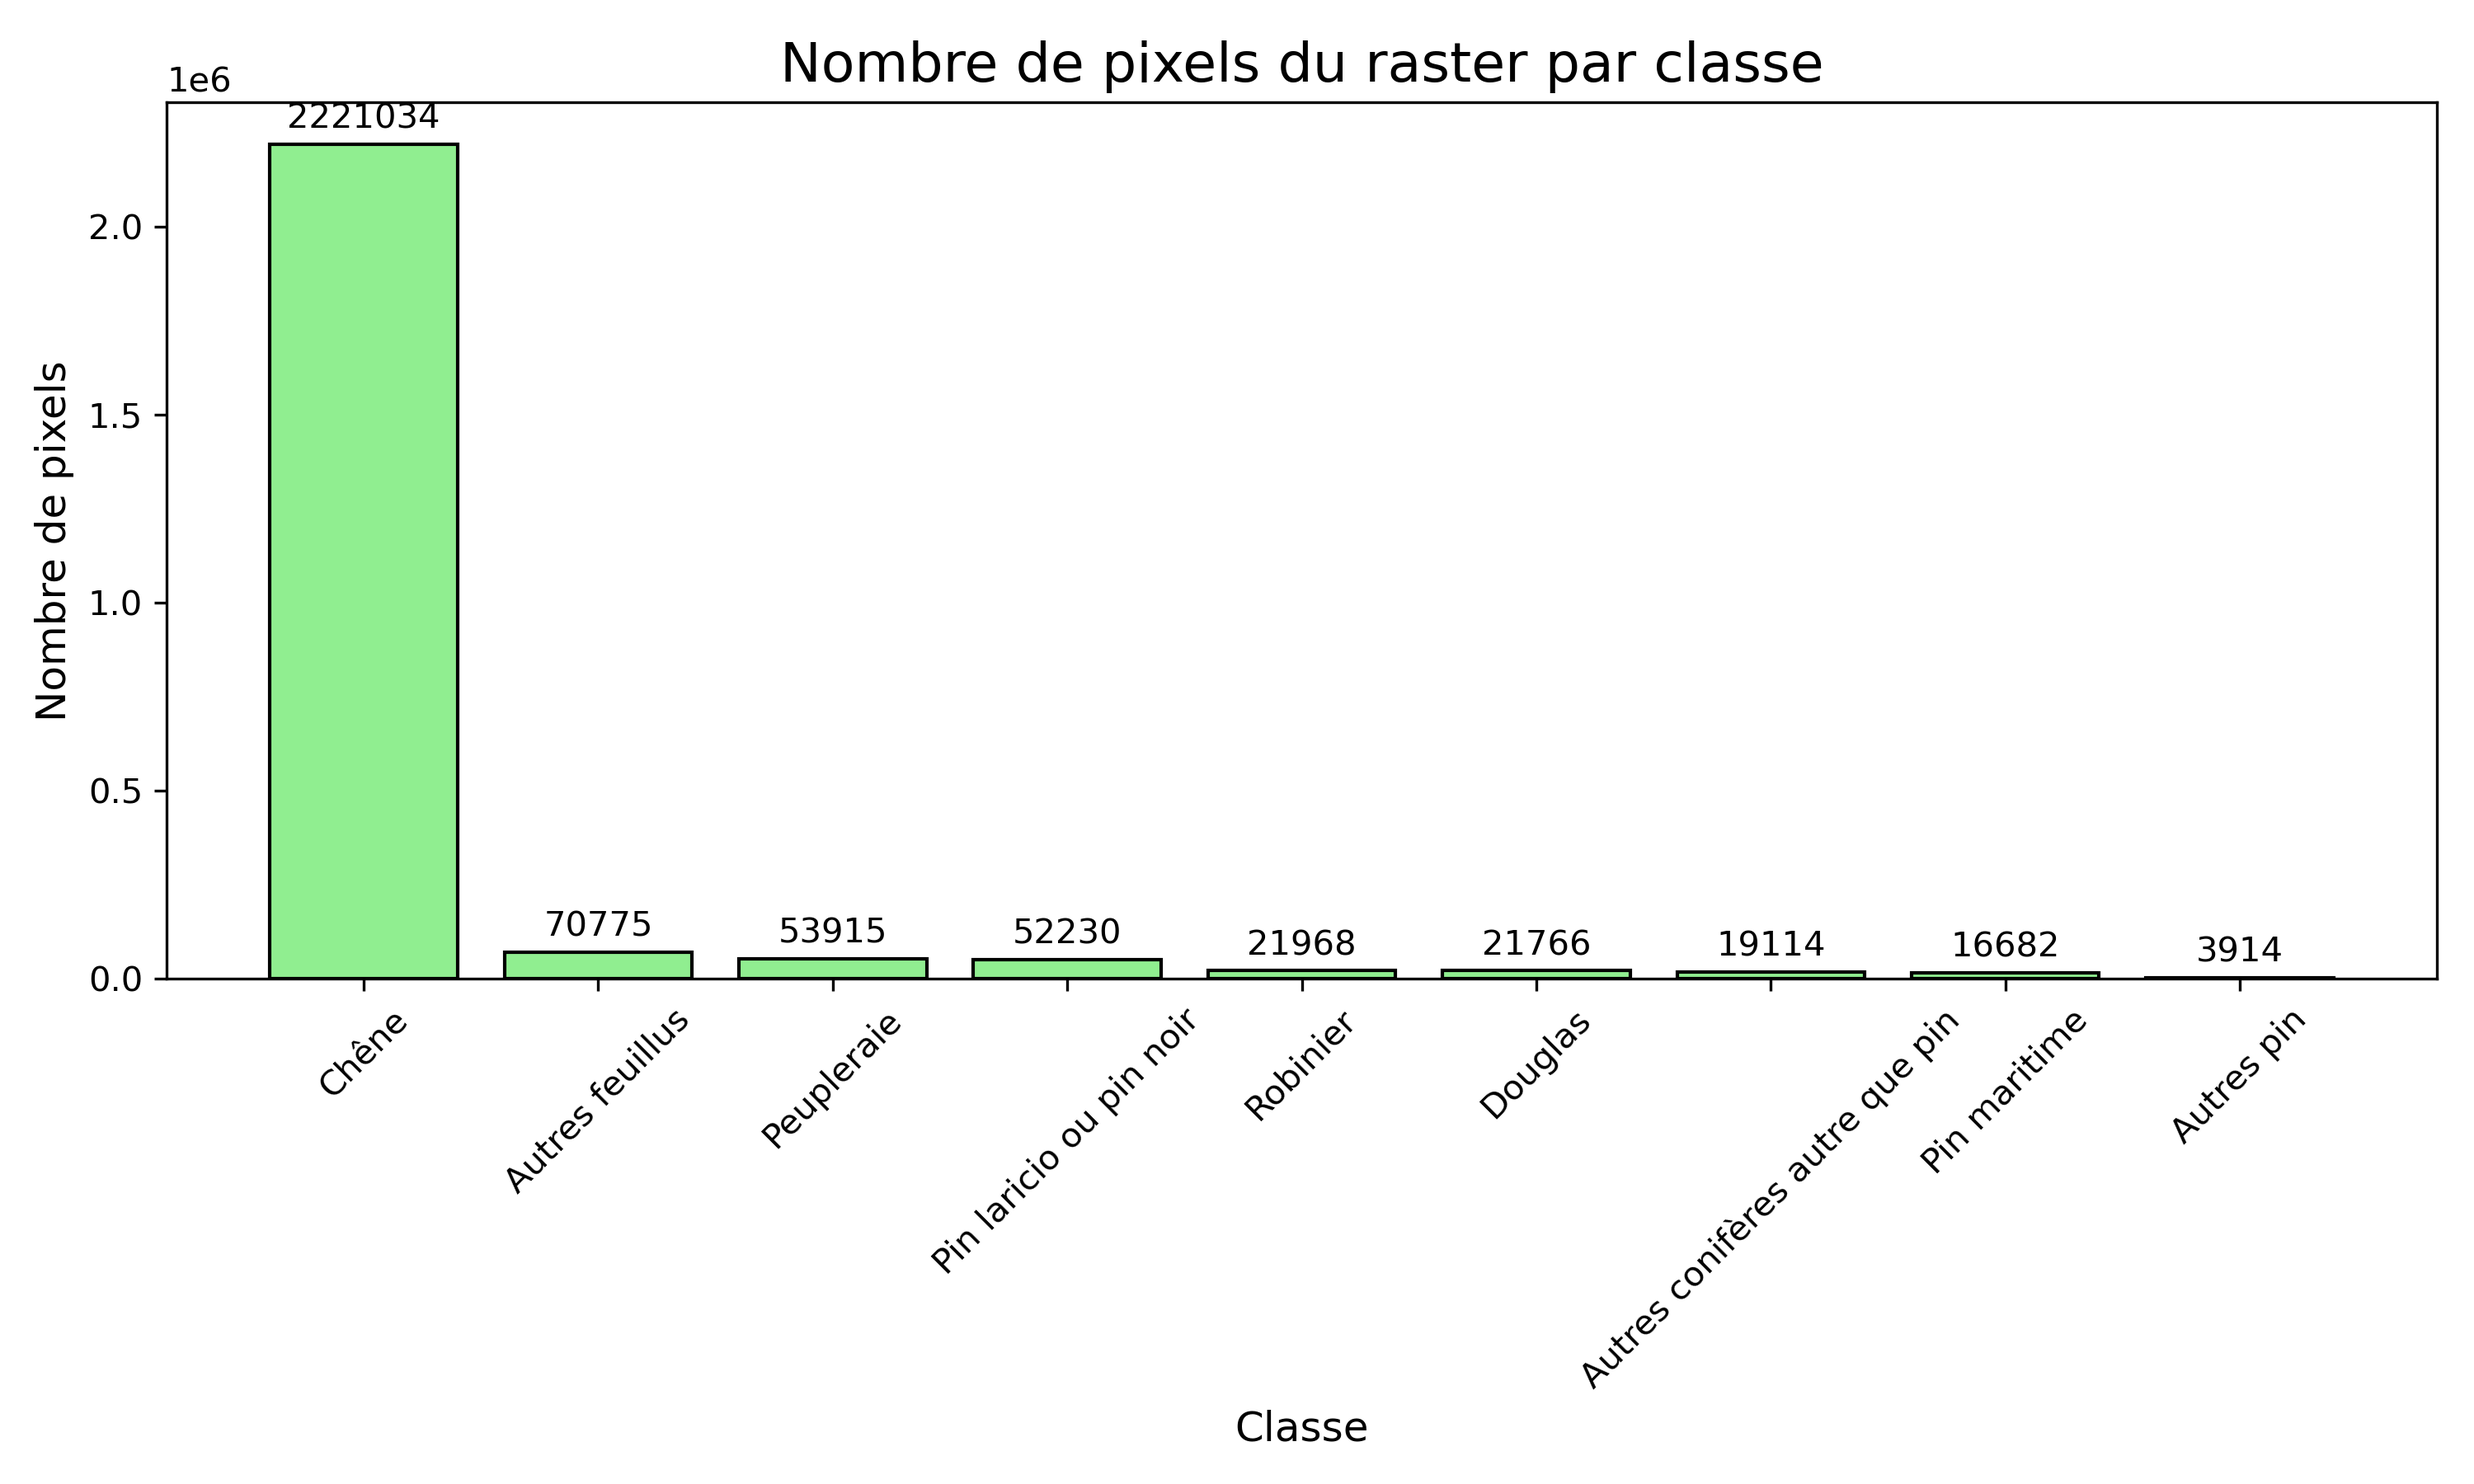
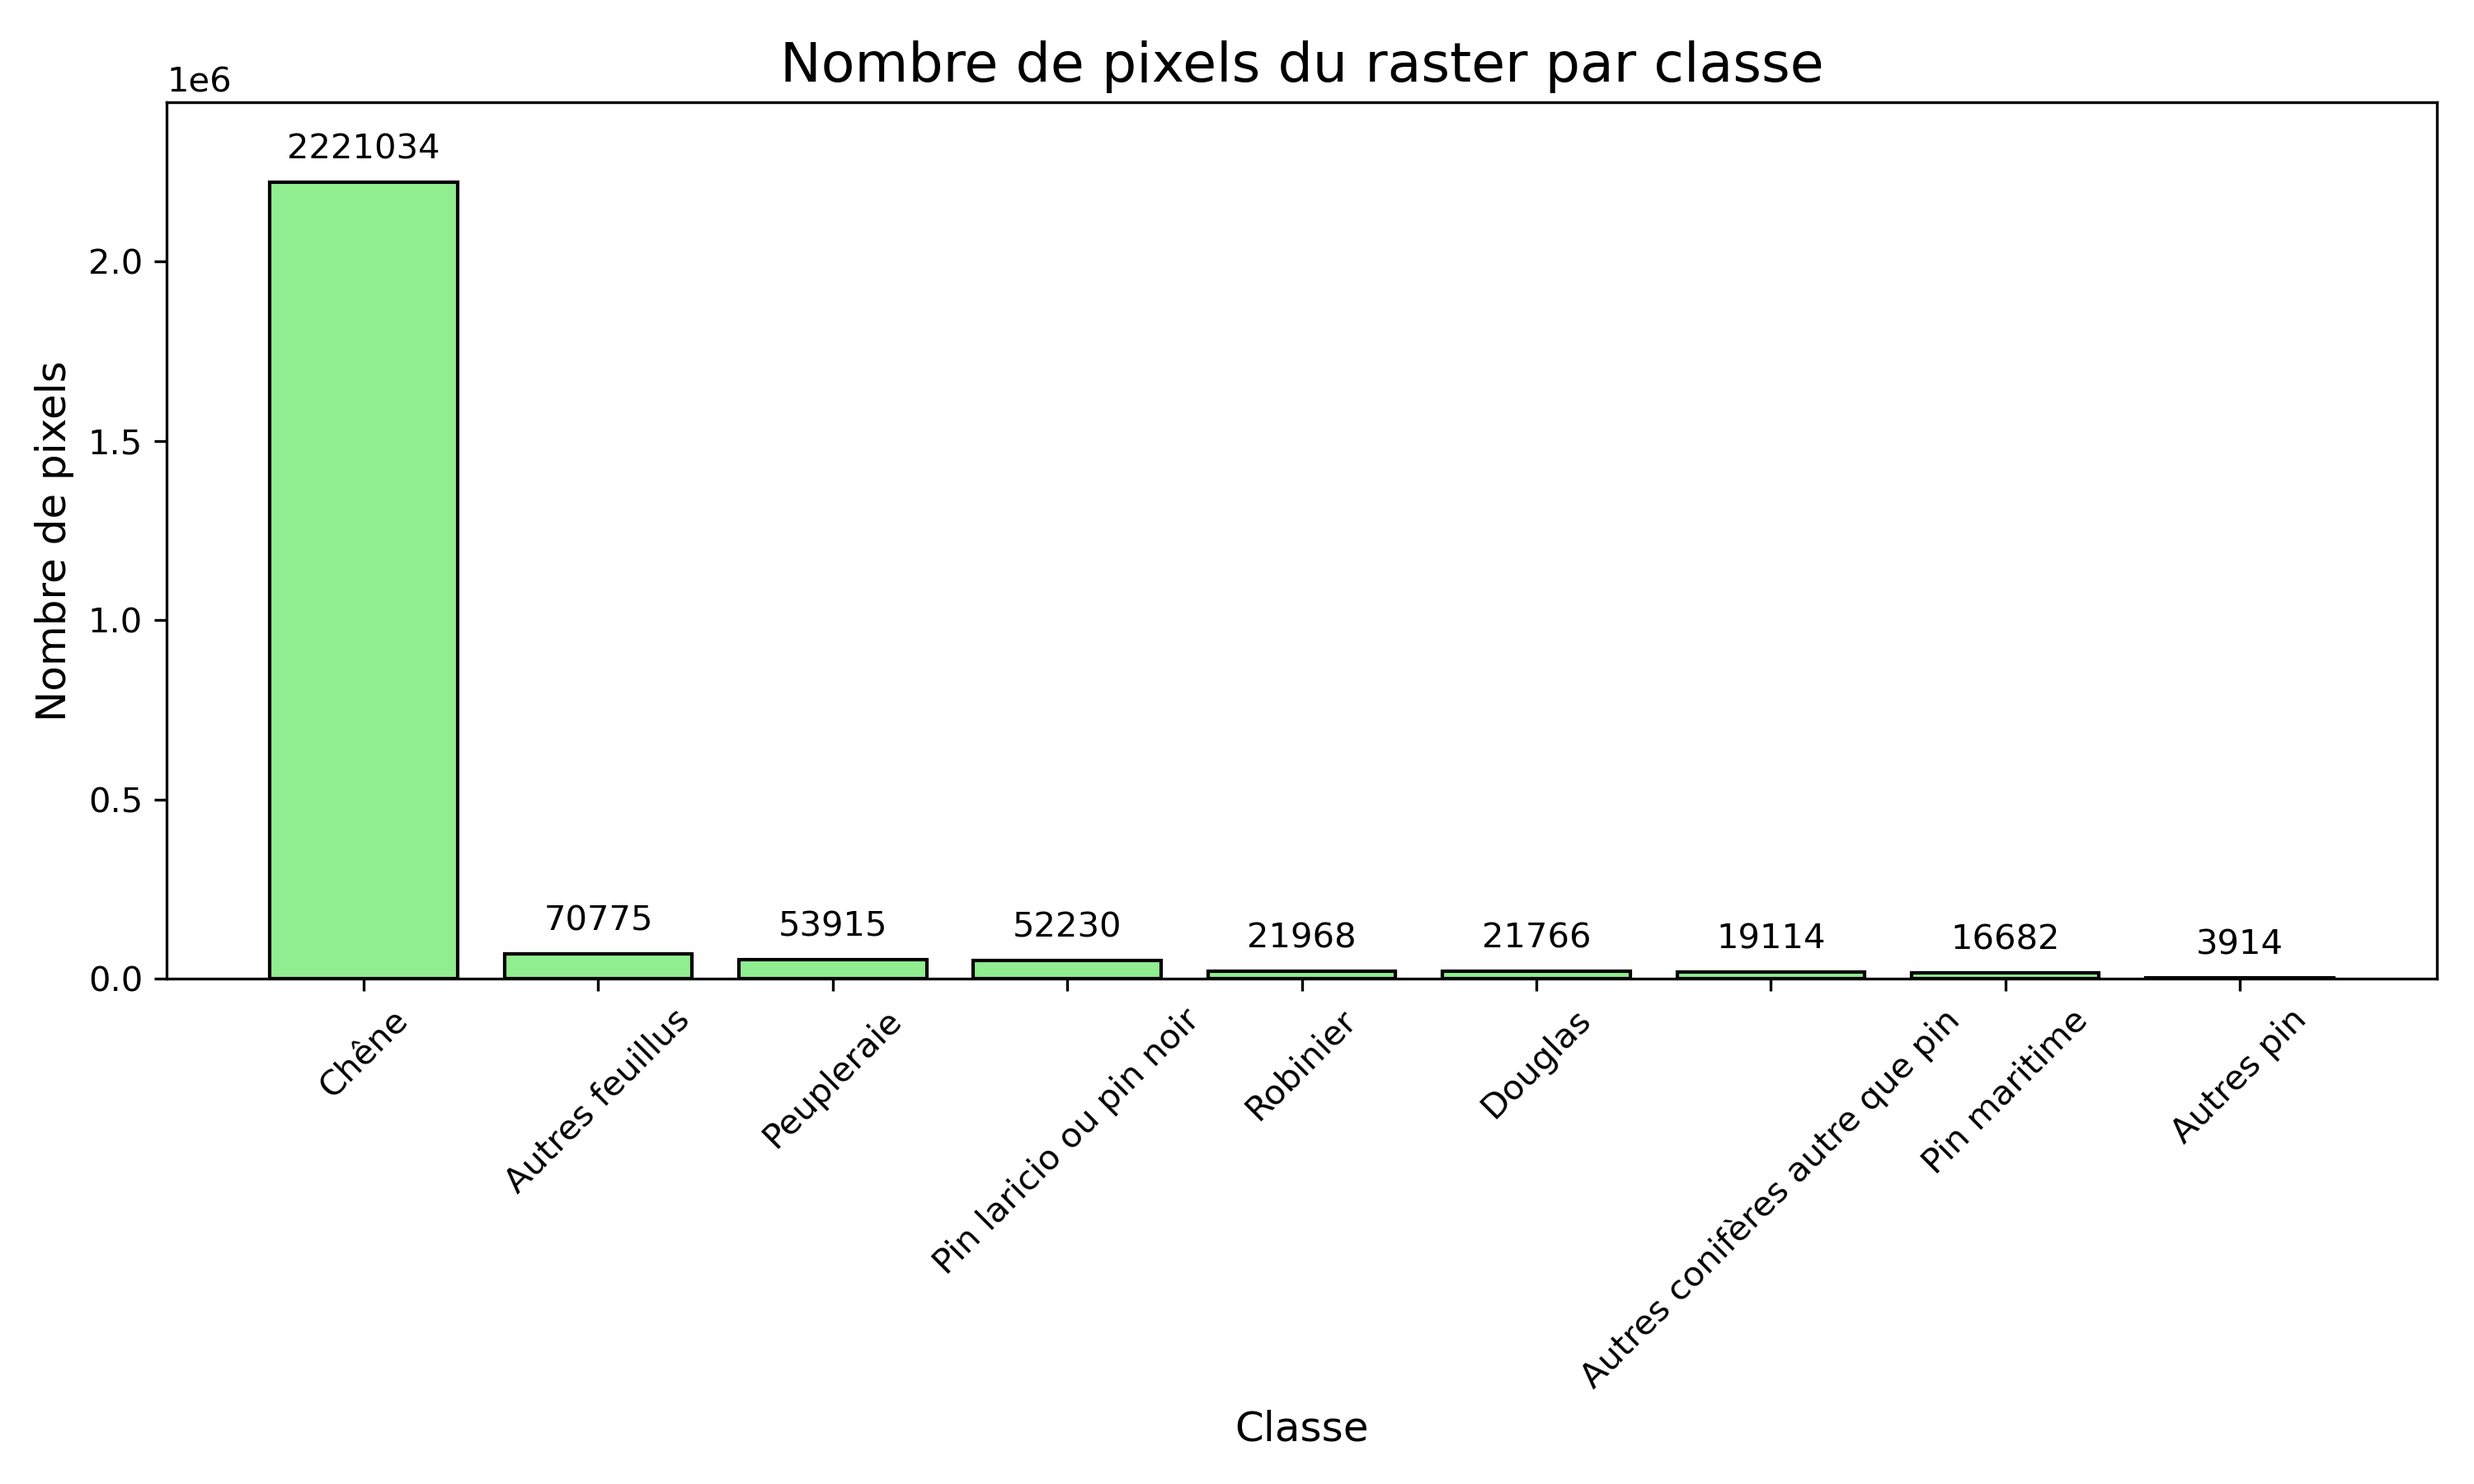
modifs plots, et renommage build_mask.py

diff --git a/scripts/my_function_robin.py b/scripts/my_function_robin.py
@@ -128,20 +128,39 @@ def sample_data_analysis(shapefile_path, raster_path, classes_a_conserver, outpu
     plt.figure(figsize=(10, 6))
     classes = list(pixels_per_class_sorted.keys())
     counts = list(pixels_per_class_sorted.values())
+
+    # Ajustement de la limite supérieure de l'axe Y
+    y_max = max(counts) * 1.1
+    plt.ylim(0, y_max)
+
     bars = plt.bar(classes, counts, color='lightgreen', edgecolor='black')
+
+    # Ajout des étiquettes avec un décalage ajusté
     for bar in bars:
         height = bar.get_height()
-        plt.text(bar.get_x() + bar.get_width() / 2, height + max(counts) * 0.01, f'{int(height)}', ha='center', va='bottom', fontsize=10)
+        plt.text(
+            bar.get_x() + bar.get_width() / 2,
+            height + max(counts) * 0.02,
+            f'{int(height)}',
+            ha='center',
+            va='bottom',
+            fontsize=10
+        )
 
     plt.title("Nombre de pixels du raster par classe", fontsize=16)
     plt.xlabel("Classe", fontsize=12)
     plt.ylabel("Nombre de pixels", fontsize=12)
     plt.xticks(rotation=45)
+
+    # Ajustement des marges
     plt.tight_layout()
+
+    # Sauvegarde du graphique
     output_path_pixels = os.path.join(output_dir, "diag_baton_nb_pixels_by_class.png")
     plt.savefig(output_path_pixels, dpi=300)
     plt.close()
     logger.info(f"Diagramme bâton des pixels sauvegardé : {output_path_pixels}")
+
 
     # 3. Création du violon plot
     logger.info("Création du violon plot...")
@@ -162,8 +181,9 @@ def sample_data_analysis(shapefile_path, raster_path, classes_a_conserver, outpu
     ]
 
     plt.figure(figsize=(12, 8))
+
     # Création du violon plot
-    violin_parts = plt.violinplot(violin_data, showmeans=False, showextrema=False, showmedians=False)
+    violin_parts = plt.violinplot(violin_data, showmeans=False, showextrema=False, showmedians=True)
 
     # Choix des couleurs sur un dégradé
     cmap = plt.cm.get_cmap('viridis')
@@ -172,26 +192,24 @@ def sample_data_analysis(shapefile_path, raster_path, classes_a_conserver, outpu
         pc.set_edgecolor('black')
         pc.set_alpha(0.7)
 
-    # Calcul et affichage des médianes et moyennes
-    for i, data in enumerate(violin_data):
-        median = np.median(data)
-        mean = np.mean(data)
-        x_pos = i+1
-        # Ligne pour la médiane
-        plt.plot([x_pos-0.2, x_pos+0.2], [median, median], color='black', linewidth=1)
-      
+    # Ajout de la légende pour la médiane
+    plt.legend([plt.Line2D([0], [0], color='black', linewidth=1)], ["Médiane"], loc='upper right')
+
+    # Configuration du graphique
     plt.title("Distribution du nombre de pixels par classe de polygone", fontsize=16)
     plt.xlabel("Classe", fontsize=12)
     plt.ylabel("Nombre de pixels par polygone", fontsize=12)
     plt.xticks(ticks=range(1, len(sorted_classes) + 1), labels=sorted_classes, rotation=45)
     plt.ylim(0, 15000)
     plt.grid(True, linestyle='--', alpha=0.5)
-    plt.tight_layout()
 
+    # Sauvegarde du plot
+    plt.tight_layout()
     output_path_violin = os.path.join(output_dir, "violin_plot_nb_pix_by_poly_by_class.png")
     plt.savefig(output_path_violin, dpi=300)
     plt.close()
     logger.info(f"Violin plot sauvegardé : {output_path_violin}")
+
 
 
 def analyse_ndvi_par_classe(raster_path, shapefile_path, classes_interet, nom_champ=None, 
